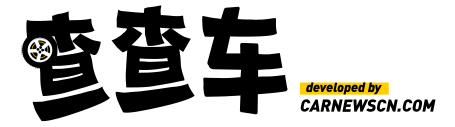
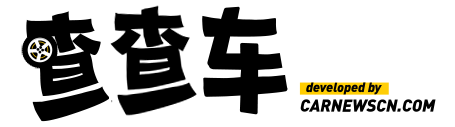
First commit

diff --git a/index.html b/index.html
@@ -58,7 +58,7 @@
                         <h2>
                             关于
                         </h2>
-                        <img alt="developed" class="img" src="images/about.png" width="455px">
+                        <img alt="developed" class="img" src="images/about.png" width="455px" style="max-width: 80%;">
                             <blockquote>
                                 <img alt="symbol" class="symbol" src="images/symbol.svg" style="max-width:6%" width="28px">
                                     查查车是澳洲首款面向华人新车购车用户的汽车综合类APP。功能涵盖中文汽车资讯，评测，独家视频，优惠信息等。用户可以通过内置即时聊天工具，随时随地同中文销售进行联络，节省沟通成本

diff --git a/css/style.css b/css/style.css
@@ -123,7 +123,7 @@ button:active{
 }
 .topmobile img {
     float: right;
-    margin-top: -25%;
+    margin-top: -35%;
     padding: 0 5%;
 }
 .topmobiledes {
@@ -135,7 +135,7 @@ button:active{
 }
 .topmobiledes h2 {
     font-family: 'hiragino_sans_gbw6';
-    font-size: 32px;
+    font-size: 22px;
 }
 .topmobiledes .img {
     margin: 0 auto;
